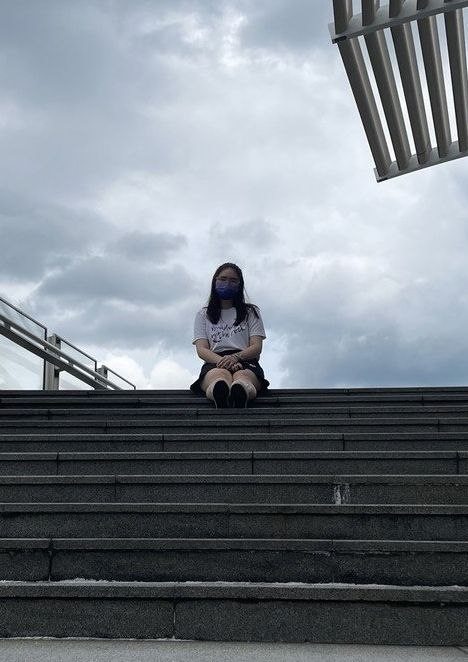
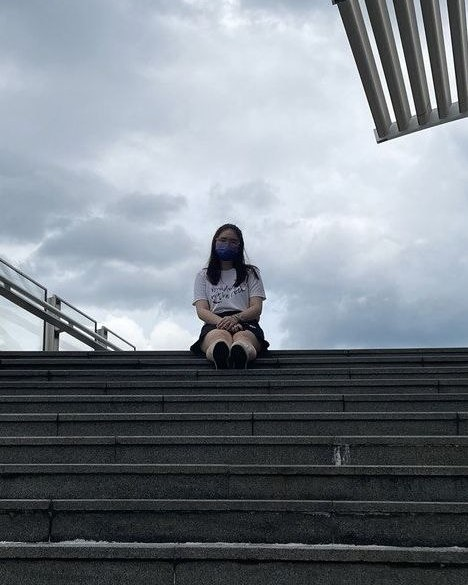
updated codes

diff --git a/about.html b/about.html
@@ -13,6 +13,29 @@
             color: whitesmoke;
             font-size: 16px;
         }
+
+        .face-img {
+            width: 70% !important;
+            padding-bottom: 5%;
+        }
+
+        .face-img {
+            display: flex;
+            margin: 0 auto;
+            align-content: center;
+            justify-content: center;
+            box-shadow: 2px 2px 10px solid black;
+            width: 70%;
+        }
+
+        .about-highlight {
+            padding: 50px 0 50px 0;
+        }
+
+        .card-shadow {
+            box-shadow: 5px 5px 10px paleturquoise;
+
+        }
     </style>
 </head>
 
@@ -42,22 +65,38 @@
         <em>
             <hr style="border:1.5px solid grey; width:100%;">
             <strong class="effect">ABOUT ME</strong>
-            <br>
-            <p class="banner-text">wait, who are you? nevermind, nice to meet you!</p>
             <hr style="border:1.5px solid grey; width:100%;">
         </em>
     </div>
 
     <!--DIALOGUE-->
-    <p>Joy: Hi there, I am Joy, a 2nd year student from Republic Polytechnic, pursuing a Diploma in Digital Design & Development.
+    <!-- <p>Joy: Hi there, I am Joy, a 2nd year student from Republic Polytechnic, pursuing a Diploma in Digital Design & Development.
         I am interested in UIUX design and I aspire to be a UIUX designer one day (although the intern I managed to secure is not
         UIUX related… waoww). Here, on this site, you’ll be able to see the works that I have done the past 2 years, both in school
-        and outside of school. </p><br>
-    
-    <!--<p>anonymous:</p><br>
-    
-    <p>Joy: Well, incase you are wondering, yes, I do have CCA, guess what, not only 1, but 3! (waowww so many!) </p><br>-->
+        and outside of school. </p><br> -->
 
+    <div class="container about-highlight">
+        <div class="row align-item-center">
+            <div class="col-md-6">
+                <img class="face-img" src="images/me.jpg" alt="image">
+            </div>
+            <div class="col-md-6">
+                <div class="card card-shadow fade-out-scrolldown about-card">
+                    <div class="card-body aboutme-font" style="background-color: whitesmoke;">
+                        <p style="color: black;">Hi there, I am <span style="color: red;">Joy</span>, a 2nd year student
+                            from Republic Polytechnic,
+                            pursuing a Diploma in Digital Design & Development
+                            currently studying in Republic
+                            Polythecnic with <span style="color: red;">diploma in Digital
+                                Design and Development.</span>
+                            <br>Some things that I am strong at are UI/UX Design and have passion for designing and
+                            programming.
+                        </p>
+                    </div>
+                </div>
+            </div>
+        </div>
+    </div>
 
     <!--FOOTER-->
     <footer class="foot dark-theme">
@@ -73,14 +112,16 @@
             </a>
             <a href="https://web.telegram.org/k/#@bleeeech" target="_blank">
                 <i class="fa-brands fa-telegram fa-2xl"></i>
-                </a>
-                <a href="https://api.whatsapp.com/send/?phone=6596688756&text&type=phone_number&app_absent=0" target="_blank">
-                    <i class="fa-brands fa-whatsapp fa-2xl"></i>
-                </a>
-                <a href="https://www.instagram.com/jjxjtotheworld/" target="_blank">
-                    <i class="fa-brands fa-instagram fa-2xl"></i>
-                </a>
-            </div>
-        </footer>
-    </body>
+            </a>
+            <a href="https://api.whatsapp.com/send/?phone=6596688756&text&type=phone_number&app_absent=0"
+                target="_blank">
+                <i class="fa-brands fa-whatsapp fa-2xl"></i>
+            </a>
+            <a href="https://www.instagram.com/jjxjtotheworld/" target="_blank">
+                <i class="fa-brands fa-instagram fa-2xl"></i>
+            </a>
+        </div>
+    </footer>
+</body>
+
 </html>

diff --git a/index.html b/index.html
@@ -10,13 +10,13 @@
     <link rel="stylesheet" type="text/css" href="style.css" />
     <style>
         .btn {
-            display: block;
+            display: flex;
             position: relative;
             border: 2px solid whitesmoke;
             z-index: 2;
             background: none;
             color: whitesmoke;
-            font-size: 20px;
+            font-size: 18px;
             font-weight: 500;
             text-transform: lowercase;
             letter-spacing: 1px;
@@ -24,17 +24,25 @@
             transition: 0.5s;
             text-decoration: none;
             box-sizing: border-box;
+            white-space: nowrap;
+            width: 250px;
+            height: 50px;
+            text-align: center;
+            align-items: center;
+            justify-content: center;
+            margin: 0 15px;
+            border-radius: 10px;
         }
 
         .btn:hover {
             z-index: 2;
             border: 2px solid paleturquoise;
             color: paleturquoise;
-            font-size: 25px;
+            font-size: 20px;
             font-weight: 700;
             text-transform: uppercase;
             letter-spacing: 2px;
-            
+
         }
     </style>
 </head>
@@ -69,17 +77,21 @@
         </em>
     </div>
 
-    <!--TYPEWRITER EFFECT-->
+    <!--SHORT INTRO-->
     <div class="container">
         <div class="row">
-            <div class="home-info"><br>
+            <div class="home-info text-center"><br><br>
                 <h1 style="color: whitesmoke;">Hello! I am <span>Joy</span></h1><br>
                 <h2 style="color: whitesmoke;">I'm a <span class="typing"></span></h2>
                 <br>
-                <a href="pdf/resume.pdf" class="btn">Download Resume</a>
+                <div class="col-md-6 d-flex justify-content-center offset-md-3">
+                    <a href="about.html" class="btn">about me</a>
+                    <a href="portfolio.html" class="btn">portfolio</a> </div>
+                </div>
             </div>
         </div>
     </div>
+    
     <!-- TYPEWRITER EFFECT -->
     <script src="https://cdnjs.cloudflare.com/ajax/libs/typed.js/2.0.16/typed.umd.js"></script>
     <script>

diff --git a/style.css b/style.css
@@ -7,8 +7,8 @@ html, body {
 }
 
 body {
-    background-color: rgb(255, 183, 183);
-    /*background-color: palegoldenrod;*/
+    background-color: #212122;
+    /* background-color: black; */
     display: flex;
     flex-direction: column;
     font-family: monospace;
@@ -384,7 +384,7 @@ input:focus::placeholder, textarea:focus::placeholder{
 
 .dropdown-content a:hover {
     transition: 0.5s;
-    background-color: #fff;
+    background-color: whitesmoke;
     border-radius: 10px;
 }
 
@@ -431,7 +431,7 @@ input:focus::placeholder, textarea:focus::placeholder{
 /* ---------------------------------------------------------------------------------------------------------------------------------- */
 /* TYPEWRITER STYLE */
 .typing {
-    color: aqua;
+    color: paleturquoise;
 }
 
 /* ---------------------------------------------------------------------------------------------------------------------------------- */
@@ -493,7 +493,7 @@ section {
 
 .layer {
     width: 100%;
-    height: 0%; /* Change this to 0% initially if you want it hidden by default */
+    height: 0%; 
     background: linear-gradient(rgba(130, 255, 255, 0.5),rgb(0, 147, 147));
     border-radius: 10px;
     position: absolute;
@@ -582,7 +582,7 @@ section {
 
   .p-heading,
 .p-description {
-  color: rgba(85, 52, 38);
+  color: whitesmoke;
 }
 
 .p-description {
@@ -592,5 +592,5 @@ section {
 }
 
 .title-name {
-  color: rgba(85, 52, 38, 80%);
+  color: rgba(245, 245, 245, 80%);
 }

diff --git a/portfolio(soi learning portal).html b/portfolio(soi learning portal).html
@@ -77,8 +77,6 @@
             <div>
                 <a href="https://joyyyyyyyyyyyyyyyyyy.github.io/soi-portal/"  target="_blank"
                     class="btn btn-right">Live Demo</a>
-                    <a href="Design Plan MINDS.pdf"  target="_blank"
-                    class="btn btn-right">Design Plan</a>
             </div>
         </div>
     </div>
